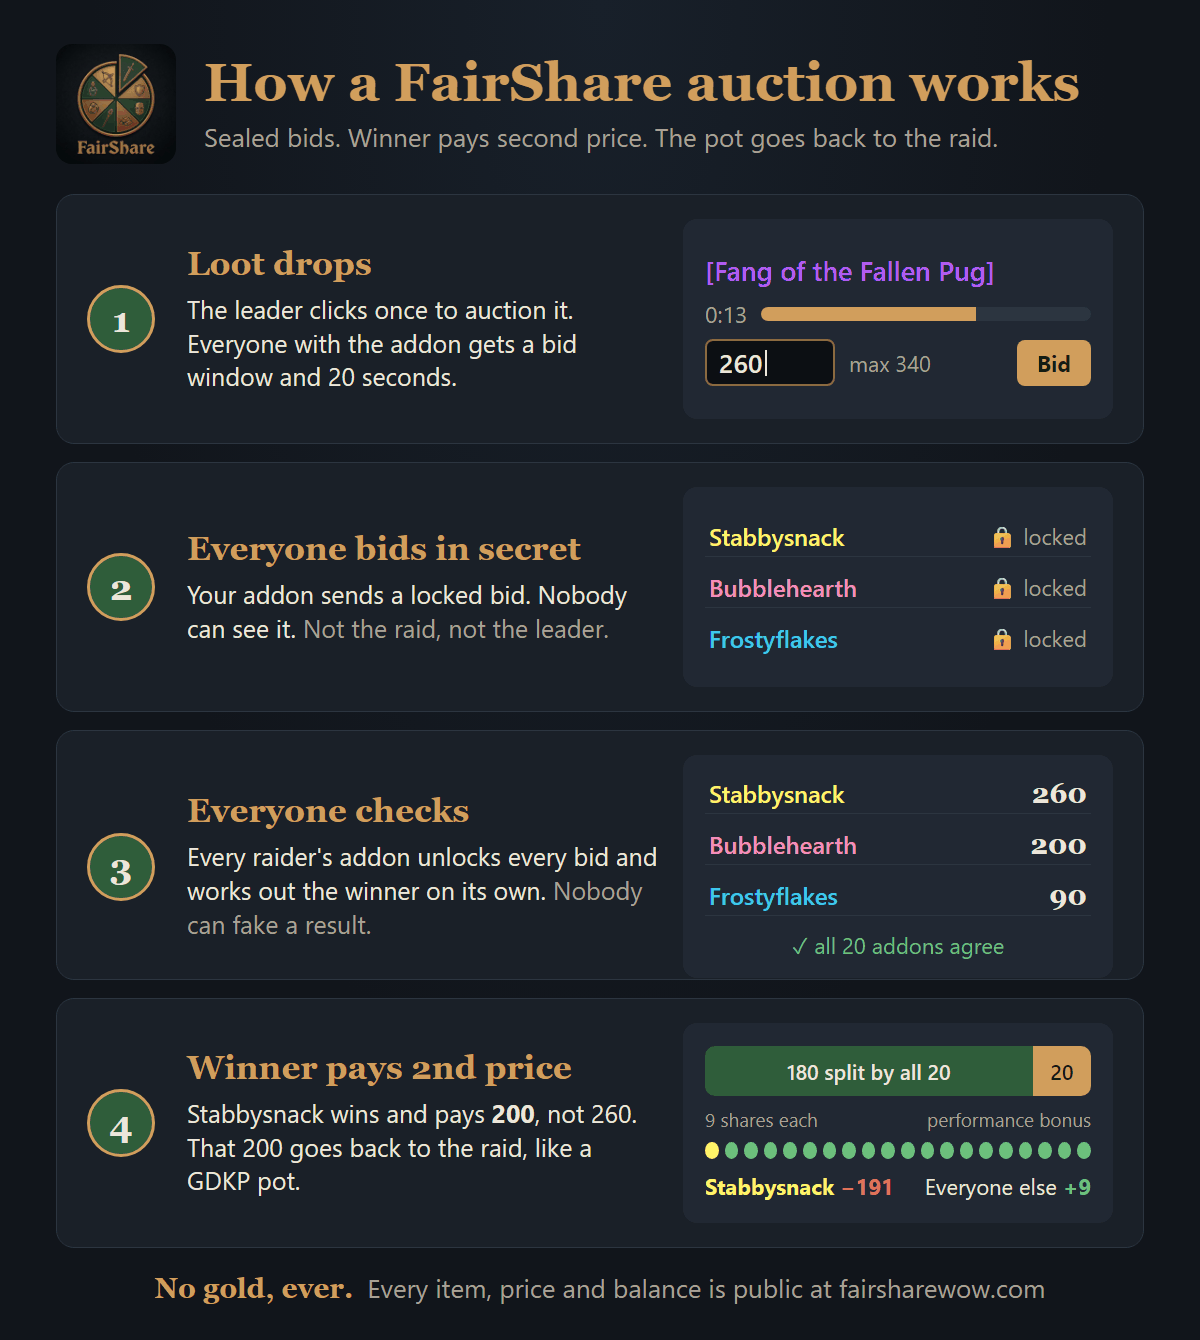
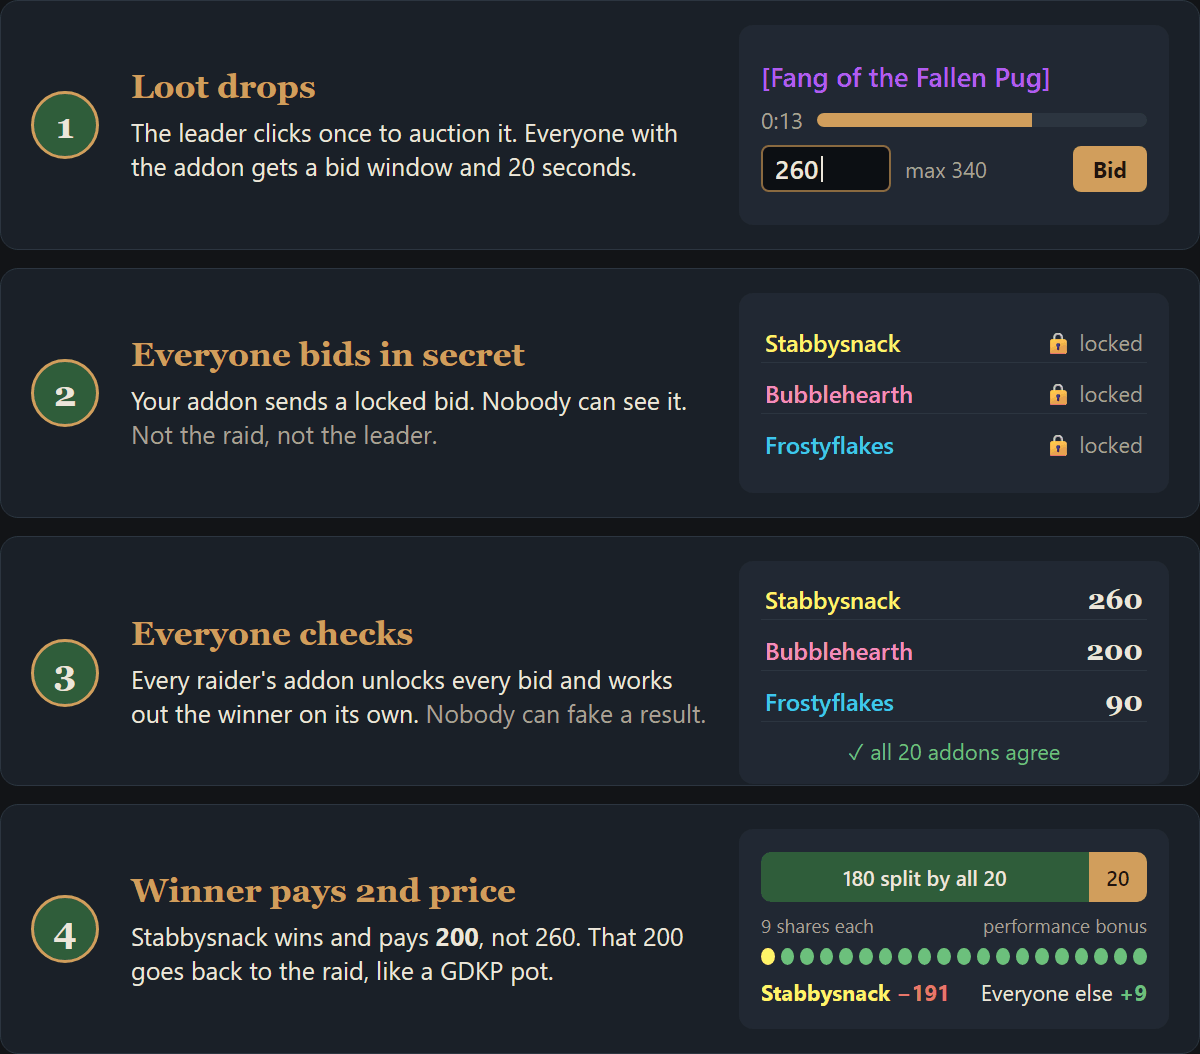
More Website Updates.

diff --git a/backend/internal/web/templates/layout.html b/backend/internal/web/templates/layout.html
@@ -4,14 +4,14 @@
 <meta charset="utf-8">
 <meta name="viewport" content="width=device-width, initial-scale=1">
 <title>{{if .Title}}{{.Title}} - {{end}}FairShare</title>
-<link rel="icon" type="image/png" href="/static/icon.png">
-<link rel="stylesheet" href="/static/site.css">
-<script src="/static/filter.js" defer></script>
+<link rel="icon" type="image/png" href="{{asset "icon.png"}}">
+<link rel="stylesheet" href="{{asset "site.css"}}">
+<script src="{{asset "filter.js"}}" defer></script>
 </head>
 <body>
 <header class="top">
   <div class="wrap top-inner">
-    <a class="brand" href="/"><img src="/static/icon.png" alt="" width="34" height="34"><span>FairShare</span></a>
+    <a class="brand" href="/"><img src="{{asset "icon.png"}}" alt="" width="34" height="34"><span>FairShare</span></a>
     <nav>
       <a href="/raids"{{if eq .Nav "raids"}} class="on"{{end}}>Raids</a>
       <a href="/loot"{{if eq .Nav "loot"}} class="on"{{end}}>Loot</a>
@@ -53,8 +53,8 @@
 </body>
 </html>
 
-{{/* discordIcon is Discord's logo mark, inline so it takes the link's colour and needs no extra request. */}}
-{{define "discordIcon"}}<svg class="ico" viewBox="0 0 24 24" aria-hidden="true" focusable="false"><path d="M20.317 4.3698a19.7913 19.7913 0 00-4.8851-1.5152.0741.0741 0 00-.0785.0371c-.211.3753-.4447.8648-.6083 1.2495-1.8447-.2762-3.68-.2762-5.4868 0-.1636-.3933-.4058-.8742-.6177-1.2495a.077.077 0 00-.0785-.037 19.7363 19.7363 0 00-4.8852 1.515.0699.0699 0 00-.0321.0277C.5334 9.0458-.319 13.5799.0992 18.0578a.0824.0824 0 00.0312.0561c2.0528 1.5076 4.0413 2.4228 5.9929 3.0294a.0777.0777 0 00.0842-.0276c.4616-.6304.8731-1.2952 1.226-1.9942a.076.076 0 00-.0416-.1057c-.6528-.2476-1.2743-.5495-1.8722-.8923a.077.077 0 01-.0076-.1277c.1258-.0943.2517-.1923.3718-.2914a.0743.0743 0 01.0776-.0105c3.9278 1.7933 8.18 1.7933 12.0614 0a.0739.0739 0 01.0785.0095c.1202.099.246.1981.3728.2924a.077.077 0 01-.0066.1276 12.2986 12.2986 0 01-1.873.8914.0766.0766 0 00-.0407.1067c.3604.698.7719 1.3628 1.225 1.9932a.076.076 0 00.0842.0286c1.961-.6067 3.9495-1.5219 6.0023-3.0294a.077.077 0 00.0313-.0552c.5004-5.177-.8382-9.6739-3.5485-13.6604a.061.061 0 00-.0312-.0286zM8.02 15.3312c-1.1825 0-2.1569-1.0857-2.1569-2.419 0-1.3332.9555-2.4189 2.157-2.4189 1.2108 0 2.1757 1.0952 2.1568 2.419 0 1.3332-.9555 2.4189-2.1569 2.4189zm7.9748 0c-1.1825 0-2.1569-1.0857-2.1569-2.419 0-1.3332.9554-2.4189 2.1569-2.4189 1.2108 0 2.1757 1.0952 2.1568 2.419 0 1.3332-.946 2.4189-2.1568 2.4189z"/></svg>{{end}}
+{{/* discordIcon is Discord's logo mark, inline so it takes the link's colour and needs no extra request. Its own width and height keep it small even before the stylesheet loads. */}}
+{{define "discordIcon"}}<svg class="ico" width="18" height="18" viewBox="0 0 24 24" aria-hidden="true" focusable="false"><path d="M20.317 4.3698a19.7913 19.7913 0 00-4.8851-1.5152.0741.0741 0 00-.0785.0371c-.211.3753-.4447.8648-.6083 1.2495-1.8447-.2762-3.68-.2762-5.4868 0-.1636-.3933-.4058-.8742-.6177-1.2495a.077.077 0 00-.0785-.037 19.7363 19.7363 0 00-4.8852 1.515.0699.0699 0 00-.0321.0277C.5334 9.0458-.319 13.5799.0992 18.0578a.0824.0824 0 00.0312.0561c2.0528 1.5076 4.0413 2.4228 5.9929 3.0294a.0777.0777 0 00.0842-.0276c.4616-.6304.8731-1.2952 1.226-1.9942a.076.076 0 00-.0416-.1057c-.6528-.2476-1.2743-.5495-1.8722-.8923a.077.077 0 01-.0076-.1277c.1258-.0943.2517-.1923.3718-.2914a.0743.0743 0 01.0776-.0105c3.9278 1.7933 8.18 1.7933 12.0614 0a.0739.0739 0 01.0785.0095c.1202.099.246.1981.3728.2924a.077.077 0 01-.0066.1276 12.2986 12.2986 0 01-1.873.8914.0766.0766 0 00-.0407.1067c.3604.698.7719 1.3628 1.225 1.9932a.076.076 0 00.0842.0286c1.961-.6067 3.9495-1.5219 6.0023-3.0294a.077.077 0 00.0313-.0552c.5004-5.177-.8382-9.6739-3.5485-13.6604a.061.061 0 00-.0312-.0286zM8.02 15.3312c-1.1825 0-2.1569-1.0857-2.1569-2.419 0-1.3332.9555-2.4189 2.157-2.4189 1.2108 0 2.1757 1.0952 2.1568 2.419 0 1.3332-.9555 2.4189-2.1569 2.4189zm7.9748 0c-1.1825 0-2.1569-1.0857-2.1569-2.419 0-1.3332.9554-2.4189 2.1569-2.4189 1.2108 0 2.1757 1.0952 2.1568 2.419 0 1.3332-.946 2.4189-2.1568 2.4189z"/></svg>{{end}}
 
 {{/* player is a person's display name, plain, linking to their page. Characters, not players, get class colours (see chars). */}}
 {{define "player"}}{{if .Char}}<a class="pl" href="{{playerURL .Char}}" title="{{.Char}}">{{.Name}}</a>{{else}}<span class="pl">{{.Name}}</span>{{end}}{{end}}

diff --git a/backend/internal/web/templates/faq.html b/backend/internal/web/templates/faq.html
@@ -3,11 +3,8 @@
 <h1>How It Works</h1>
 <p class="lead wide">Every boss kill belongs to everyone who was there. Loot is auctioned for <strong>shares</strong>, the community's own points, and what the winner pays is split across the raid. The numbers on this page are read from the live settings.</p>
 
-<div class="minute">
-  <h2>In one minute</h2>
-  <a class="howto-link" href="/static/how-bidding-works@2x.png" title="Open full size"><img class="howto" src="/static/how-bidding-works@1x.png" srcset="/static/how-bidding-works@1x.png 1x, /static/how-bidding-works@2x.png 2x" width="1200" height="1340" alt="How a FairShare auction works, in four steps. One: loot drops, the leader clicks once to auction it, and everyone with the addon gets a bid window and 20 seconds. Two: everyone bids in secret; your addon sends a locked bid that nobody can see, not even the leader. Three: every raider's addon unlocks every bid and works out the winner on its own, so nobody can fake a result. Four: the winner pays the second-highest bid. In the example, bids of 260, 200 and 90: the winner pays 200, not 260. 180 is split across all 20 raiders, 9 shares each, and 20 goes to the performance bonus, so the winner is down 191 and everyone else is up 9. No gold, ever."></a>
-  <p class="cta">{{if $.Discord}}<a class="btn" href="{{$.Discord}}" rel="noopener">{{template "discordIcon"}}Join us on Discord</a> {{end}}<a class="btn alt" href="/rules">The rules</a></p>
-</div>
+<figure class="howto"><a href="{{asset "how-bidding-works@2x.png"}}" title="Open full size"><img src="{{asset "how-bidding-works@1x.png"}}" srcset="{{asset "how-bidding-works@1x.png"}} 1x, {{asset "how-bidding-works@2x.png"}} 2x" width="600" height="527" alt="How a FairShare auction works, in four steps. One: loot drops, the leader clicks once to auction it, and everyone with the addon gets a bid window and 20 seconds. Two: everyone bids in secret; your addon sends a locked bid that nobody can see, not even the leader. Three: every raider's addon unlocks every bid and works out the winner on its own, so nobody can fake a result. Four: the winner pays the second-highest bid. In the example, bids of 260, 200 and 90: the winner pays 200, not 260. 180 is split across all 20 raiders, 9 shares each, and 20 goes to the performance bonus, so the winner is down 191 and everyone else is up 9. No gold, ever."></a></figure>
+<p class="cta">{{if $.Discord}}<a class="btn" href="{{$.Discord}}" rel="noopener">{{template "discordIcon"}}Join us on Discord</a> {{end}}<a class="btn alt" href="/rules">The rules</a></p>
 
 {{range .Sections}}
 <h2>{{.Title}}</h2>

diff --git a/docs/brand/how-bidding-works.html b/docs/brand/how-bidding-works.html
@@ -2,8 +2,11 @@
 <!--
   The "In one minute" picture on the website's How It Works page, and the image for community posts.
   Its example numbers are fixed (20-second bids, 10% performance pool): re-render if those settings change.
-  Render from the repo root with Edge, then shrink to a 256-colour palette (Pillow) before committing:
-    msedge --headless=new --hide-scrollbars --force-device-scale-factor=1 --window-size=1200,1340 --screenshot=backend/internal/web/static/how-bidding-works@1x.png file:///<repo>/docs/brand/how-bidding-works.html
+  Two renders with Edge. For posts, the whole card (1200x1340):
+    msedge --headless=new --hide-scrollbars --force-device-scale-factor=2 --window-size=1200,1340 --screenshot=<out>.png file:///<repo>/docs/brand/how-bidding-works.html
+  For the website, only the four steps (#web), 1200x1054, at scale 1 and 2, then shrink to a
+  256-colour palette (Pillow) before committing:
+    msedge --headless=new --hide-scrollbars --force-device-scale-factor=1 --window-size=1200,1054 --screenshot=backend/internal/web/static/how-bidding-works@1x.png "file:///<repo>/docs/brand/how-bidding-works.html#web"
     (and again with --force-device-scale-factor=2 for how-bidding-works@2x.png)
   Every name and item in it is made up.
 -->
@@ -95,6 +98,12 @@
   .neg { color: var(--red); font-weight: 700; } .pos { color: var(--green-bright); font-weight: 700; }
 
   footer { text-align: center; margin-top: 22px; font-size: 26px; color: var(--muted); }
+
+  /* #web: the website's copy. The page around it has the title and the links, so only the
+     four steps, flat on the site's background (--bg in site.css). */
+  body.web { padding: 0; background: #121417; }
+  body.web header, body.web footer { display: none; }
+  body.web .step:last-of-type { margin-bottom: 0; }
   footer b { color: var(--bronze); font-family: Georgia, serif; font-size: 28px; }
 </style>
 </head>
@@ -162,5 +171,6 @@
   </section>
 
   <footer><b>No gold, ever.</b> &nbsp;Every item, price and balance is public at fairsharewow.com</footer>
+<script>if (location.hash === "#web") document.body.classList.add("web");</script>
 </body>
 </html>

diff --git a/backend/internal/web/static/site.css b/backend/internal/web/static/site.css
@@ -159,14 +159,11 @@ nav a.discord { color: var(--bronze-2); border: 1px solid var(--bronze); margin-
 .ico { width: 1.15em; height: 1.15em; flex: none; fill: currentColor; margin-right: .45em; }
 footer .sep { margin: 0 .4rem; }
 
-/* How It Works: a one-minute summary, then cards by topic. Wide, scannable, no single column of prose. */
+/* How It Works: the auction picture, then cards by topic. Wide, scannable, no single column of prose. */
 .lead.wide { max-width: none; }
-.minute { background: var(--panel); border: 1px solid var(--line); border-left: 3px solid var(--bronze); border-radius: var(--radius); padding: 1rem 1.2rem; margin: 1rem 0 1.5rem; }
-.minute h2 { margin: 0 0 .5rem; }
-.minute .howto { display: block; width: 100%; max-width: 760px; height: auto; margin: .2rem auto 0; border-radius: var(--radius); }
-.minute .cta { margin: .9rem 0 0; }
+.howto { margin: 1.2rem 0 1rem; }
+.howto img { display: block; width: 100%; height: auto; border-radius: var(--radius); }
 .faq h2 { margin: 2.2rem 0 1rem; text-align: center; font-size: 1.5rem; }
-.faq .minute h2 { margin: 0 0 .6rem; text-align: left; font-size: 1.15rem; }
 .rules-page ol.rules { margin: 1rem 0; padding-left: 1.6rem; max-width: 80ch; }
 .rules-page ol.rules li { margin: 0 0 .8rem; line-height: 1.55; }
 .rules-page .outro { color: var(--muted); max-width: 80ch; }

diff --git a/backend/internal/web/web.go b/backend/internal/web/web.go
@@ -9,7 +9,9 @@
 package web
 
 import (
+	"crypto/sha256"
 	"embed"
+	"encoding/hex"
 	"fmt"
 	"html/template"
 	"io/fs"
@@ -34,6 +36,37 @@ var templateFS embed.FS
 
 //go:embed static
 var staticFS embed.FS
+
+// assetVersions maps each static file to the start of its SHA-256. Static files are cached
+// for a day, so pages link them as /static/<name>?v=<hash>: a new build changes the link
+// and every browser fetches the new file at once instead of pairing new pages with an old
+// stylesheet.
+var assetVersions = func() map[string]string {
+	v := map[string]string{}
+	_ = fs.WalkDir(staticFS, "static", func(path string, d fs.DirEntry, err error) error {
+		if err != nil || d.IsDir() {
+			return err
+		}
+		b, err := staticFS.ReadFile(path)
+		if err != nil {
+			return err
+		}
+		sum := sha256.Sum256(b)
+		v[strings.TrimPrefix(path, "static/")] = hex.EncodeToString(sum[:5])
+		return nil
+	})
+	return v
+}()
+
+// asset is the versioned link to a static file. An unknown name fails the page render,
+// so a typo shows up in tests rather than as a broken link.
+func asset(name string) (string, error) {
+	v, ok := assetVersions[name]
+	if !ok {
+		return "", fmt.Errorf("no static file %q", name)
+	}
+	return "/static/" + name + "?v=" + v, nil
+}
 
 // Server renders the site.
 type Server struct {
@@ -194,6 +227,7 @@ func parseItem(link string) Item {
 }
 
 var funcs = template.FuncMap{
+	"asset":        asset,
 	"item":         parseItem,
 	"dict":         dict,
 	"sortURL":      sortURL,

diff --git a/backend/internal/web/web_test.go b/backend/internal/web/web_test.go
@@ -112,7 +112,7 @@ func TestPages(t *testing.T) {
 		{"/players", []string{"Alice", "Alicealt", "Leadpal"}},
 		{"/players/Alice", []string{"Raid history", "Thursday MC", "Alicealt", ", then", "Can bid up to", "Thunderfury", "Bought an item", "Share of a sale", "Average percentile"}},
 		{"/players/Alicealt", []string{"Alice", "Thunderfury"}},
-		{"/faq", []string{"How It Works", "Is this GDKP?", "two-handed weapon", "second price", "In one minute"}},
+		{"/faq", []string{"How It Works", "Is this GDKP?", "two-handed weapon", "second price", "how-bidding-works@1x.png?v="}},
 		{"/rules", []string{"The Rules", "One person, one account", "two-handed weapon", "Won it, wear it"}},
 	}
 	for _, c := range cases {
